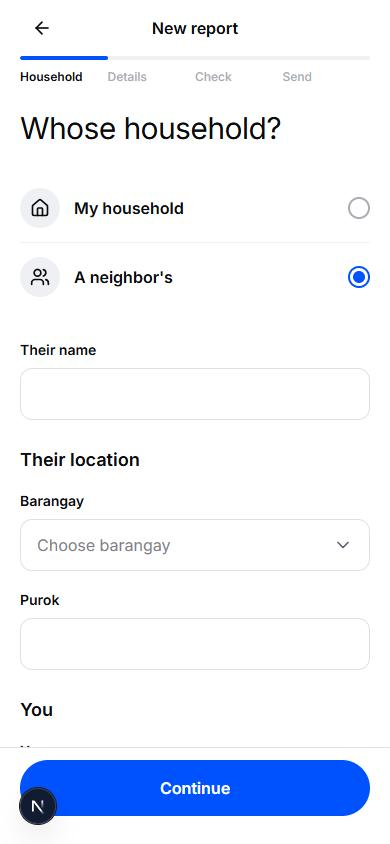
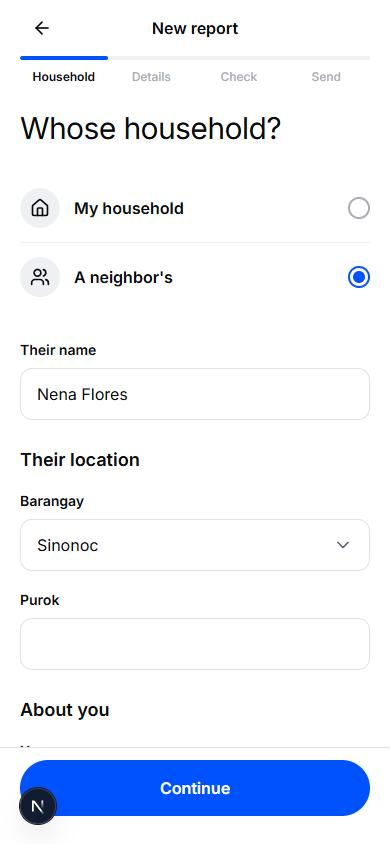
fix(family): About you heading and an even grid for the place chips BYTE-62

diff --git a/src/components/family/whose-household-form.tsx b/src/components/family/whose-household-form.tsx
@@ -188,9 +188,9 @@ function WhoseHouseholdForm({ barangays, whereToFind, requestedSource = null }: 
           </section>
 
           {neighbor ? (
-            <section aria-labelledby="you" className="flex flex-col gap-4.5">
-              <h2 id="you" className="text-title-md text-ink">
-                You
+            <section aria-labelledby="about-you" className="flex flex-col gap-4.5">
+              <h2 id="about-you" className="text-title-md text-ink">
+                About you
               </h2>
               <Field id="reporter-name" label="Your name" error={errorFor("reporter_name")}>
                 <Input
@@ -214,9 +214,14 @@ function WhoseHouseholdForm({ barangays, whereToFind, requestedSource = null }: 
                   onChange={(event) => change(null, { reporter_where: event.target.value })}
                 />
                 {whereToFind.length > 0 ? (
-                  <div role="group" aria-label="Common places" className="flex flex-wrap gap-2">
+                  <div role="group" aria-label="Common places" className="grid grid-cols-2 gap-2">
                     {whereToFind.map((place) => (
-                      <Chip key={place} pressed={draft.reporter_where === place} onPressedChange={(on) => change(null, { reporter_where: on ? place : "" })}>
+                      <Chip
+                        key={place}
+                        pressed={draft.reporter_where === place}
+                        onPressedChange={(on) => change(null, { reporter_where: on ? place : "" })}
+                        className="h-auto min-h-11 w-full whitespace-normal px-4 py-2 text-center leading-snug"
+                      >
                         {place}
                       </Chip>
                     ))}
